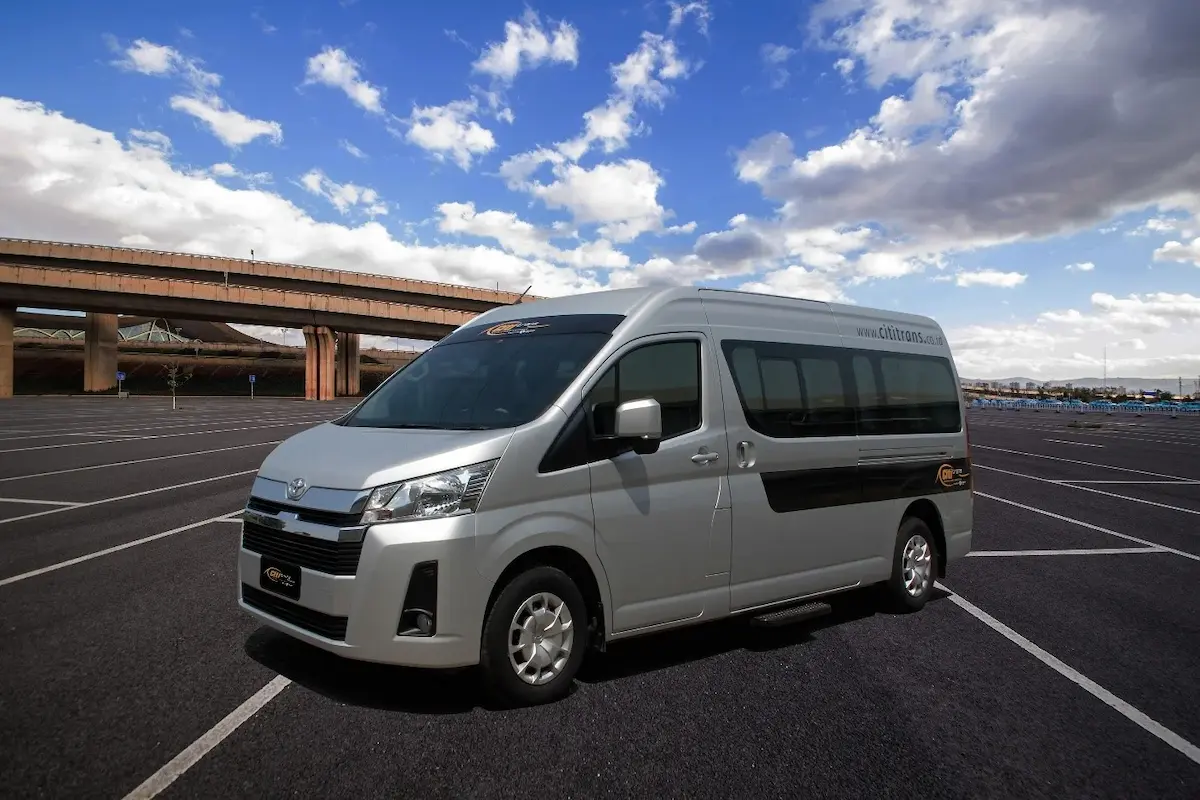
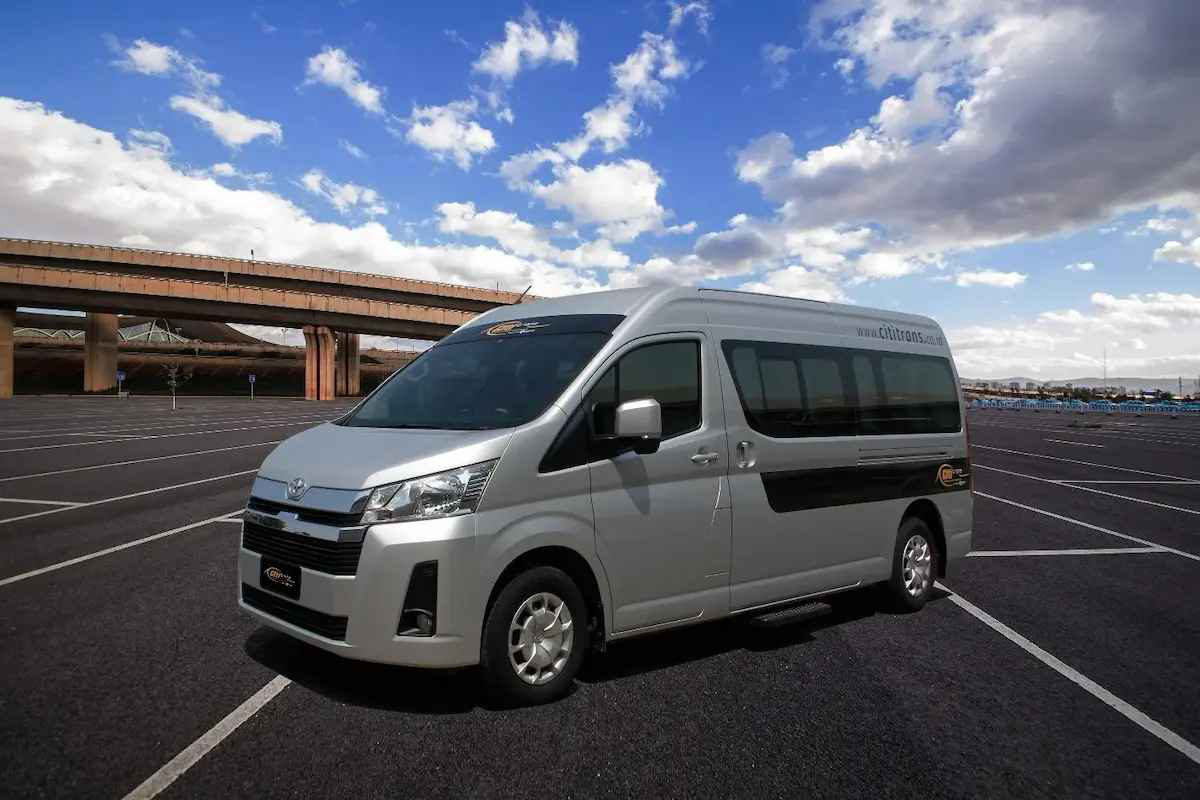
compress image

diff --git a/index.html b/index.html
@@ -236,7 +236,7 @@
                     <div class="col-lg-4 col-md-6 wow fadeInUp" data-wow-delay="0.1s">
                         <div class="room-item shadow rounded overflow-hidden">
                             <div class="position-relative">
-                                <img class="img-fluid" src="img/reguler.png" alt="">
+                                <img class="img-fluid" src="img/layanan/reguler.jpg" alt="">
                                 <!-- <small class="position-absolute start-0 top-100 translate-middle-y bg-primary text-white rounded py-1 px-3 ms-4">$100/Night</small> -->
                             </div>
                             <div class="p-4 mt-2">
@@ -264,7 +264,7 @@
                     <div class="col-lg-4 col-md-6 wow fadeInUp" data-wow-delay="0.2s">
                         <div class="room-item shadow rounded overflow-hidden">
                             <div class="position-relative">
-                                <img class="img-fluid" src="img/bandara.png" alt="">
+                                <img class="img-fluid" src="img/layanan/bandara.jpg" alt="">
                                 <!-- <small class="position-absolute start-0 top-100 translate-middle-y bg-primary text-white rounded py-1 px-3 ms-4">$100/Night</small> -->
                             </div>
                             <div class="p-4 mt-2">
@@ -292,7 +292,7 @@
                     <div class="col-lg-4 col-md-6 wow fadeInUp" data-wow-delay="0.3s">
                         <div class="room-item shadow rounded overflow-hidden">
                             <div class="position-relative">
-                                <img class="img-fluid" src="img/private.png" alt="">
+                                <img class="img-fluid" src="img/layanan/private.jpg" alt="">
                                 <!-- <small class="position-absolute start-0 top-100 translate-middle-y bg-primary text-white rounded py-1 px-3 ms-4">$100/Night</small> -->
                             </div>
                             <div class="p-4 mt-2">
@@ -376,7 +376,7 @@
                     <div class="col-lg-4 col-md-6 wow fadeInUp" data-wow-delay="0.1s">
                         <div class="rounded shadow overflow-hidden h-100 d-flex flex-column">
                             <div class="position-relative pt-2">
-                                <img class="img-fluid" src="img/harga charter/jakarta-bandung/1.png" alt="">
+                                <img class="img-fluid" src="img/harga charter/jakarta-bandung/1.jpg" alt="">
                             </div>
                             <a href="https://wa.me/6281322058880" target="_blank">
                                 <div class="text-center p-4 mt-auto btn-primary">
@@ -390,7 +390,7 @@
                     <div class="col-lg-4 col-md-6 wow fadeInUp" data-wow-delay="0.1s">
                         <div class="rounded shadow overflow-hidden h-100 d-flex flex-column">
                             <div class="position-relative pt-2">
-                                <img class="img-fluid" src="img/harga charter/jakarta-bandung/2.png" alt="">
+                                <img class="img-fluid" src="img/harga charter/jakarta-bandung/2.jpg" alt="">
                             </div>
                             <a href="https://wa.me/6281322058880" target="_blank">
                                 <div class="text-center p-4 mt-auto btn-primary">
@@ -404,7 +404,7 @@
                     <div class="col-lg-4 col-md-6 wow fadeInUp" data-wow-delay="0.1s">
                         <div class="rounded shadow overflow-hidden h-100 d-flex flex-column">
                             <div class="position-relative pt-2">
-                                <img class="img-fluid" src="img/harga charter/jakarta-bandung/3.png" alt="">
+                                <img class="img-fluid" src="img/harga charter/jakarta-bandung/3.jpg" alt="">
                             </div>
                             <a href="https://wa.me/6281322058880" target="_blank">
                                 <div class="text-center p-4 mt-auto btn-primary">
@@ -418,7 +418,7 @@
                     <div class="col-lg-4 col-md-6 wow fadeInUp" data-wow-delay="0.1s">
                         <div class="rounded shadow overflow-hidden h-100 d-flex flex-column">
                             <div class="position-relative pt-2">
-                                <img class="img-fluid" src="img/harga charter/jakarta-bandung/4.png" alt="">
+                                <img class="img-fluid" src="img/harga charter/jakarta-bandung/4.jpg" alt="">
                             </div>
                             <a href="https://wa.me/6281322058880" target="_blank">
                                 <div class="text-center p-4 mt-auto btn-primary">
@@ -432,7 +432,7 @@
                     <div class="col-lg-4 col-md-6 wow fadeInUp" data-wow-delay="0.1s">
                         <div class="rounded shadow overflow-hidden h-100 d-flex flex-column">
                             <div class="position-relative pt-2">
-                                <img class="img-fluid" src="img/harga charter/jakarta-bandung/5.png" alt="">
+                                <img class="img-fluid" src="img/harga charter/jakarta-bandung/5.jpg" alt="">
                             </div>
                             <a href="https://wa.me/6281322058880" target="_blank">
                                 <div class="text-center p-4 mt-auto btn-primary">
@@ -446,7 +446,7 @@
                     <div class="col-lg-4 col-md-6 wow fadeInUp" data-wow-delay="0.1s">
                         <div class="rounded shadow overflow-hidden h-100 d-flex flex-column">
                             <div class="position-relative pt-2">
-                                <img class="img-fluid" src="img/harga charter/jakarta-bandung/6.png" alt="">
+                                <img class="img-fluid" src="img/harga charter/jakarta-bandung/6.jpg" alt="">
                             </div>
                             <a href="https://wa.me/6281322058880" target="_blank">
                                 <div class="text-center p-4 mt-auto btn-primary">
@@ -651,7 +651,7 @@
                     <div class="col-lg-4 col-md-6 wow fadeInUp" data-wow-delay="0.1s">
                         <div class="rounded shadow overflow-hidden h-100 d-flex flex-column">
                             <div class="position-relative pt-2">
-                                <img class="img-fluid" src="img/sewa/1.png" alt="">
+                                <img class="img-fluid" src="img/sewa/1.jpg" alt="">
                             </div>
                             <a href="https://wa.me/6281322058880" target="_blank">
                                 <div class="text-center p-4 mt-auto btn-primary">
@@ -665,7 +665,7 @@
                     <div class="col-lg-4 col-md-6 wow fadeInUp" data-wow-delay="0.1s">
                         <div class="rounded shadow overflow-hidden h-100 d-flex flex-column">
                             <div class="position-relative pt-2">
-                                <img class="img-fluid" src="img/sewa/2.png" alt="">
+                                <img class="img-fluid" src="img/sewa/2.jpg" alt="">
                             </div>
                             <a href="https://wa.me/6281322058880" target="_blank">
                                 <div class="text-center p-4 mt-auto btn-primary">
@@ -679,7 +679,7 @@
                     <div class="col-lg-4 col-md-6 wow fadeInUp" data-wow-delay="0.1s">
                         <div class="rounded shadow overflow-hidden h-100 d-flex flex-column">
                             <div class="position-relative pt-2">
-                                <img class="img-fluid" src="img/sewa/3.png" alt="">
+                                <img class="img-fluid" src="img/sewa/3.jpg" alt="">
                             </div>
                             <a href="https://wa.me/6281322058880" target="_blank">
                                 <div class="text-center p-4 mt-auto btn-primary">
@@ -693,7 +693,7 @@
                     <div class="col-lg-4 col-md-6 wow fadeInUp" data-wow-delay="0.1s">
                         <div class="rounded shadow overflow-hidden h-100 d-flex flex-column">
                             <div class="position-relative pt-2">
-                                <img class="img-fluid" src="img/sewa/4.png" alt="">
+                                <img class="img-fluid" src="img/sewa/4.jpg" alt="">
                             </div>
                             <a href="https://wa.me/6281322058880" target="_blank">
                                 <div class="text-center p-4 mt-auto btn-primary">
@@ -707,7 +707,7 @@
                     <div class="col-lg-4 col-md-6 wow fadeInUp" data-wow-delay="0.1s">
                         <div class="rounded shadow overflow-hidden h-100 d-flex flex-column">
                             <div class="position-relative pt-2">
-                                <img class="img-fluid" src="img/sewa/5.png" alt="">
+                                <img class="img-fluid" src="img/sewa/5.jpg" alt="">
                             </div>
                             <a href="https://wa.me/6281322058880" target="_blank">
                                 <div class="text-center p-4 mt-auto btn-primary">
@@ -721,7 +721,7 @@
                     <div class="col-lg-4 col-md-6 wow fadeInUp" data-wow-delay="0.1s">
                         <div class="rounded shadow overflow-hidden h-100 d-flex flex-column">
                             <div class="position-relative pt-2">
-                                <img class="img-fluid" src="img/sewa/6.png" alt="">
+                                <img class="img-fluid" src="img/sewa/6.jpg" alt="">
                             </div>
                             <a href="https://wa.me/6281322058880" target="_blank">
                                 <div class="text-center p-4 mt-auto btn-primary">
@@ -735,7 +735,7 @@
                     <div class="col-lg-4 col-md-6 wow fadeInUp" data-wow-delay="0.1s">
                         <div class="rounded shadow overflow-hidden h-100 d-flex flex-column">
                             <div class="position-relative pt-2">
-                                <img class="img-fluid" src="img/sewa/7.png" alt="">
+                                <img class="img-fluid" src="img/sewa/7.jpg" alt="">
                             </div>
                             <a href="https://wa.me/6281322058880" target="_blank">
                                 <div class="text-center p-4 mt-auto btn-primary">
@@ -749,7 +749,7 @@
                     <div class="col-lg-4 col-md-6 wow fadeInUp" data-wow-delay="0.1s">
                         <div class="rounded shadow overflow-hidden h-100 d-flex flex-column">
                             <div class="position-relative pt-2">
-                                <img class="img-fluid" src="img/sewa/8.png" alt="">
+                                <img class="img-fluid" src="img/sewa/8.jpg" alt="">
                             </div>
                             <a href="https://wa.me/6281322058880" target="_blank">
                                 <div class="text-center p-4 mt-auto btn-primary">
@@ -763,7 +763,7 @@
                     <div class="col-lg-4 col-md-6 wow fadeInUp" data-wow-delay="0.1s">
                         <div class="rounded shadow overflow-hidden h-100 d-flex flex-column">
                             <div class="position-relative pt-2">
-                                <img class="img-fluid" src="img/sewa/9.png" alt="">
+                                <img class="img-fluid" src="img/sewa/9.jpg" alt="">
                             </div>
                             <a href="https://wa.me/6281322058880" target="_blank">
                                 <div class="text-center p-4 mt-auto btn-primary">

diff --git a/service.html b/service.html
@@ -105,7 +105,7 @@
                     <div class="col-lg-4 col-md-6 wow fadeInUp" data-wow-delay="0.1s">
                         <div class="room-item shadow rounded overflow-hidden">
                             <div class="position-relative">
-                                <img class="img-fluid" src="img/reguler.png" alt="">
+                                <img class="img-fluid" src="img/layanan/reguler.jpg" alt="">
                                 <!-- <small class="position-absolute start-0 top-100 translate-middle-y bg-primary text-white rounded py-1 px-3 ms-4">$100/Night</small> -->
                             </div>
                             <div class="p-4 mt-2">
@@ -133,7 +133,7 @@
                     <div class="col-lg-4 col-md-6 wow fadeInUp" data-wow-delay="0.3s">
                         <div class="room-item shadow rounded overflow-hidden">
                             <div class="position-relative">
-                                <img class="img-fluid" src="img/bandara.png" alt="">
+                                <img class="img-fluid" src="img/layanan/bandara.jpg" alt="">
                                 <!-- <small class="position-absolute start-0 top-100 translate-middle-y bg-primary text-white rounded py-1 px-3 ms-4">$100/Night</small> -->
                             </div>
                             <div class="p-4 mt-2">
@@ -161,7 +161,7 @@
                     <div class="col-lg-4 col-md-6 wow fadeInUp" data-wow-delay="0.6s">
                         <div class="room-item shadow rounded overflow-hidden">
                             <div class="position-relative">
-                                <img class="img-fluid" src="img/private.png" alt="">
+                                <img class="img-fluid" src="img/layanan/private.jpg" alt="">
                                 <!-- <small class="position-absolute start-0 top-100 translate-middle-y bg-primary text-white rounded py-1 px-3 ms-4">$100/Night</small> -->
                             </div>
                             <div class="p-4 mt-2">
